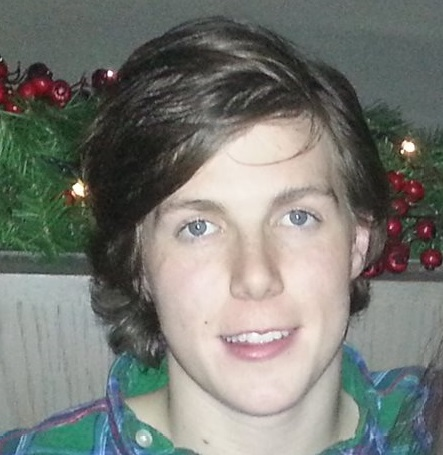
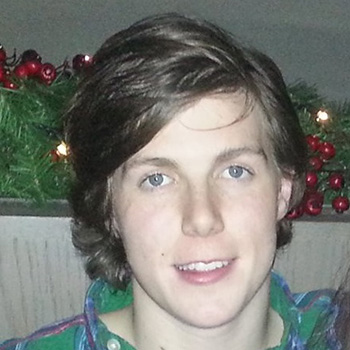
Fixed team image size

diff --git a/pages/about.html b/pages/about.html
@@ -54,9 +54,10 @@ fa-icon: fa-info-circle
             {% capture break %}{{ forloop.index | modulo: 4 }}{% endcapture %}
 
             <div class="col s6 m4 l3">
-                <div class="card medium hoverable">
-                        <div class="card-image team-image" style="background-image:url(/images/team/{% if item.image %}{{ item.image }}{% else %}avatar.png{% endif %});"></div>
-                        <div class="card-content">
+                <div class="card large hoverable">
+                        <div class="card-image">
+                            <img src="/images/team/{% if item.image %}{{ item.image }}{% else %}avatar.png{% endif %}" class="responsive-img">
+                        </div>                        <div class="card-content">
                             <strong>{{ item.name }}</strong><br />
                             {% if item.job %}
                                 {{ item.job }}<br />
@@ -91,8 +92,10 @@ fa-icon: fa-info-circle
             {% capture break %}{{ forloop.index | modulo: 4 }}{% endcapture %}
 
             <div class="col s6 m4 l3">
-                <div class="card medium hoverable">
-                        <div class="card-image team-image" style="background-image:url(/images/team/{% if item.image %}{{ item.image }}{% else %}avatar.png{% endif %});"></div>
+                <div class="card large hoverable">
+                        <div class="card-image">
+                            <img src="/images/team/{% if item.image %}{{ item.image }}{% else %}avatar.png{% endif %}" class="responsive-img">
+                        </div>
                         <div class="card-content">
                             <strong>{{ item.name }}</strong><br />
 
